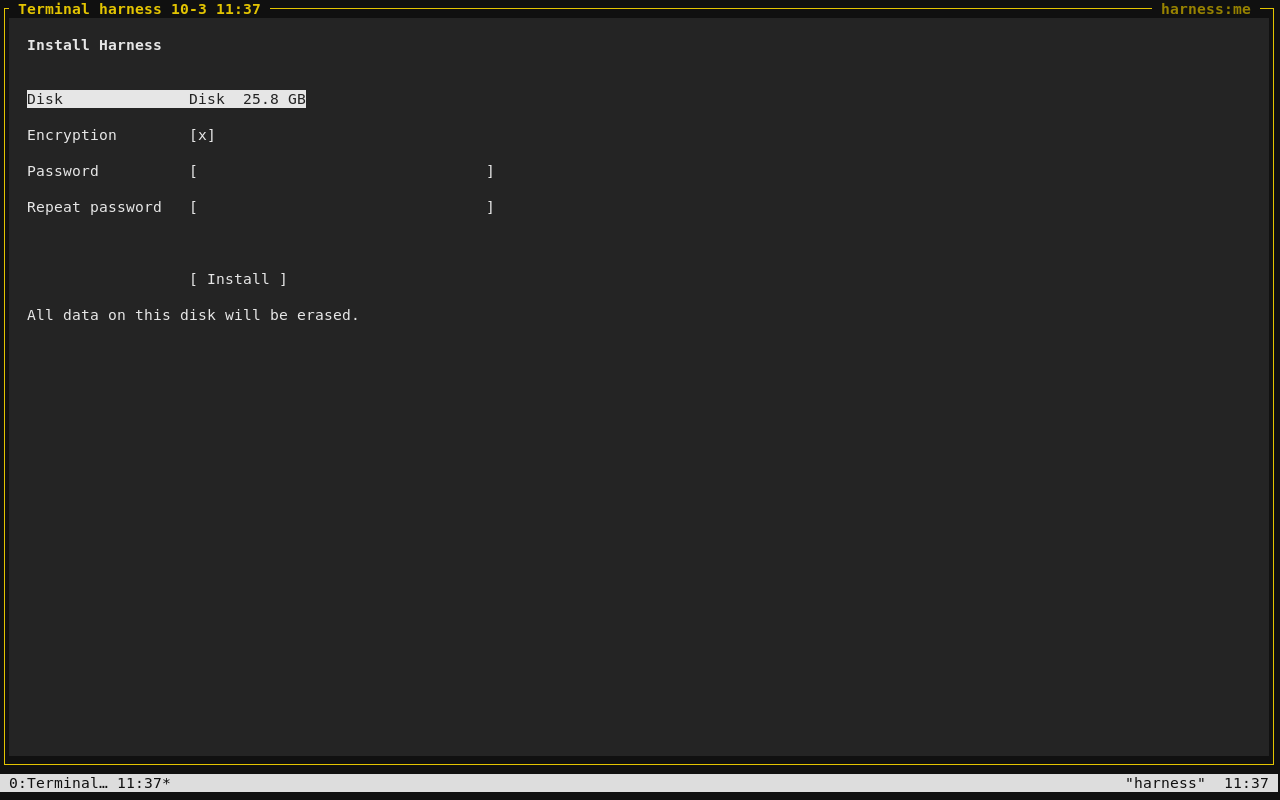
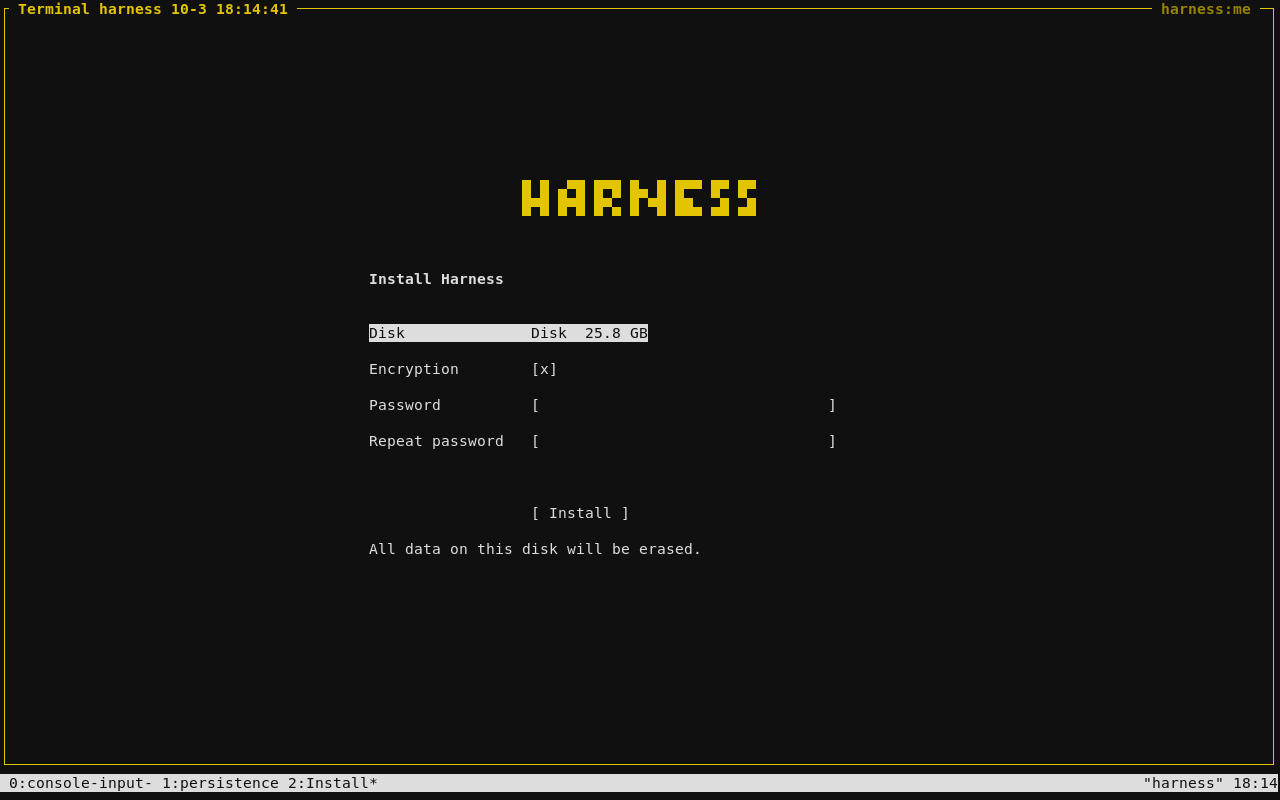
Refresh the OS page for preview 5 and updates without reflashing (#690)

diff --git a/website/public/os/index.html b/website/public/os/index.html
@@ -30,7 +30,7 @@
 
     <main id="main">
       <section class="hero" aria-labelledby="headline">
-        <p class="eyebrow">An operating system built around agents <span class="edition">Preview 4</span></p>
+        <p class="eyebrow">An operating system built around agents <span class="edition">Preview 5</span></p>
         <div class="hero-grid">
           <h1 id="headline">Agents are<br>the new apps<span class="period">.</span></h1>
           <div class="hero-copy">
@@ -40,17 +40,17 @@
           </div>
         </div>
         <div class="hero-actions">
-          <a class="button" href="https://github.com/autonomous-ai/openharness/releases/download/os-v0.1.0-preview.4/harness-0.1.0-preview.4-x86_64.iso">Download the ISO <span aria-hidden="true">↓</span></a>
-          <a class="text-link" href="https://github.com/autonomous-ai/openharness/releases/tag/os-v0.1.0-preview.4">Release notes <span aria-hidden="true">↗</span></a>
+          <a class="button" href="https://github.com/autonomous-ai/openharness/releases/download/os-v0.1.0-preview.5/harness-0.1.0-preview.5-x86_64.iso">Download the ISO <span aria-hidden="true">↓</span></a>
+          <a class="text-link" href="https://github.com/autonomous-ai/openharness/releases/tag/os-v0.1.0-preview.5">Release notes <span aria-hidden="true">↗</span></a>
           <span class="download-meta">x86-64 · 1.50 GiB · Open source</span>
         </div>
       </section>
 
       <figure class="screen">
         <a href="assets/hn.png" aria-label="Open the Harness home screenshot at full size">
-          <img src="assets/hn.png" width="1280" height="800" alt="Harness running fullscreen, with a recent terminal and keyboard shortcuts for starting an agent and opening the browser." fetchpriority="high">
+          <img src="assets/hn.png" width="1280" height="800" alt="Harness running fullscreen, with shortcuts to start OpenCode, open a terminal, or connect to Wi-Fi." fetchpriority="high">
         </a>
-        <figcaption><span>The whole desktop.</span><span>Actual preview 4 screenshot. Keyboard first.</span></figcaption>
+        <figcaption><span>The whole desktop.</span><span>Actual preview 5 screenshot. Keyboard first.</span></figcaption>
       </figure>
 
       <section id="how" class="section workflow" aria-labelledby="workflow-title">
@@ -81,7 +81,7 @@
             <figcaption><h3><span class="step-number">02</span> Unlock. Start making.</h3><p>Remove the USB and boot your computer. On an encrypted install, enter your password to open Harness. Your account is already <code>me@harness</code>.</p><p class="caption-note">Start OpenCode, choose another agent, or open a terminal. OpenCode is included; other agents install when selected. Their accounts and model usage are yours.</p></figcaption>
           </figure>
         </div>
-        <p class="journey-note">Real screens from preview 4. Installation erases the entire selected disk. <a href="#install">Read the installation guide below.</a></p>
+        <p class="journey-note">Real screens from preview 5. Installation erases the entire selected disk. <a href="#install">Read the installation guide below.</a></p>
       </section>
 
       <section class="section philosophy" aria-labelledby="philosophy-title">
@@ -98,19 +98,19 @@
       </section>
 
       <section class="section measurements" aria-labelledby="measurements-title">
-        <div class="section-heading"><h2 id="measurements-title">Small. Measured.</h2><a class="text-link" href="https://github.com/autonomous-ai/openharness/releases/download/os-v0.1.0-preview.4/validation.json">Read the evidence <span aria-hidden="true">↗</span></a></div>
+        <div class="section-heading"><h2 id="measurements-title">Small. Measured.</h2><a class="text-link" href="https://github.com/autonomous-ai/openharness/releases/download/os-v0.1.0-preview.5/validation.json">Read the evidence <span aria-hidden="true">↗</span></a></div>
         <dl class="numbers">
           <div><dt>ISO download</dt><dd>1.50<span>GiB</span></dd></div>
-          <div><dt>Settled idle memory</dt><dd>~500<span>MiB</span></dd></div>
-          <div><dt>Offline VM installation</dt><dd>30–45<span>sec</span></dd></div>
+          <div><dt>Settled idle memory</dt><dd>~390<span>MiB</span></dd></div>
+          <div><dt>Offline VM installation</dt><dd>32–108<span>sec</span></dd></div>
         </dl>
-        <p class="measurement-note">Preview 4 measurements in 2-vCPU, 4-GiB x86 VMs installed from virtual USB. Idle memory is with agents and browser closed. Installation excludes downloading the image and answering prompts. Physical hardware will differ.</p>
+        <p class="measurement-note">Preview 5 measurements in 2-vCPU, 1-GiB x86 VMs installed from virtual USB. Idle memory is with agents and browser closed. Installation took 32 seconds without encryption and 108 seconds with encryption, excluding the download and answering prompts. Physical hardware will differ.</p>
         <details>
           <summary>What has actually been tested? <span aria-hidden="true">+</span></summary>
           <div class="details-content">
-            <p>The keyboard installer, BIOS and UEFI USB boot, automatic RAM-image detection, offline installation, encrypted disks, wrong-password retry, clipboard, browser switching, update retry, and recovery that preserves projects. This exact image passed at 1 GiB and 4 GiB RAM, including a real first agent conversation typed through the keyboard.</p>
-            <p>In the 4-GiB checks, installed BIOS boot reached Harness readiness in 17.3 seconds, including automated login. Encrypted boot showed the password prompt in 4.6 seconds and reached Harness 8.3 seconds after password submission. Settled idle memory was 481–511 MiB. Separate <a href="https://github.com/autonomous-ai/openharness/blob/main/os/README.md#measured-preview-footprint">1-GiB checks measured 396–399 MiB</a>. These are VM observations, not physical power-on benchmarks.</p>
-            <p>OpenCode agents built a Python CLI, a website, a keyboard game, and a Fastify/SQLite app. Three completed projects were retained; the game agent ran again. All 31 unit tests and independent browser/API checks passed on this image. Three fresh domain-specific harness exercises also passed with the shared HTML and game viewers.</p>
+            <p>The keyboard installer, BIOS and UEFI USB boot, automatic RAM-image detection, offline installation, encrypted disks, wrong-password retry, clipboard, browser switching, update retry, and recovery that preserves projects. This image passed at 1 GiB RAM, including a real first agent conversation typed through the keyboard. Separate update tests preserve a running OpenCode agent and terminal through hn and CLI activation, failed-start recovery, and rollback.</p>
+            <p>Installed BIOS boot reached Harness readiness in 15.9 seconds, including automated login. Encrypted boot showed the password prompt in 5.2 seconds and reached Harness 7.7 seconds after the correct password was submitted. Settled idle memory was 376–395 MiB. These are VM observations, not physical power-on benchmarks.</p>
+            <p>Earlier preview 4 tests had OpenCode agents build a Python CLI, a website, a keyboard game, and a Fastify/SQLite app. Their 31 unit tests and independent browser/API checks passed, along with three domain-specific harness exercises using the shared viewers. Those projects and their evidence remain available separately.</p>
             <p>A user has now reported a successful preview 4 installation, boot, and use on their ThinkPad. This is a user report, without measured hardware timings. Physical Wi-Fi, suspend, Intel Mac support, and NVIDIA workloads still need model-specific validation.</p>
             <a class="text-link" href="https://github.com/autonomous-ai/openharness/releases/download/os-v0.1.0-preview.4/harness-examples.zip">Download the projects and harness examples <span aria-hidden="true">↓</span></a>
           </div>
@@ -119,27 +119,27 @@
           <summary>See a game built inside the OS. <span aria-hidden="true">+</span></summary>
           <div class="details-content">
             <img src="assets/signal-run.png" width="1280" height="800" loading="lazy" alt="Signal Run, a keyboard-controlled canvas game built by a real OpenCode agent inside Harness. The complete board and control legend fit on screen.">
-            <p>Signal Run. Built with HTML, CSS, and JavaScript by OpenCode in the installed OS. This is project output, separate from the system image.</p>
+            <p>Signal Run. Built with HTML, CSS, and JavaScript by OpenCode inside preview 4. This is project output, separate from the system image.</p>
           </div>
         </details>
       </section>
 
       <section id="install" class="section install" aria-labelledby="install-title">
         <div class="section-intro">
-          <p class="eyebrow">0.1.0-preview.4</p>
+          <p class="eyebrow">0.1.0-preview.5</p>
           <h2 id="install-title">Give it a machine.<br>Make something.</h2>
-          <p>An x86-64 Intel or AMD PC. Start with 2 GiB RAM and a spare disk of at least 12 GiB. Secure Boot off. A disposable x86 VM works too.</p>
-          <a class="text-link" href="https://github.com/autonomous-ai/openharness/releases/download/os-v0.1.0-preview.4/INSTALL.md">USB installation guide <span aria-hidden="true">↗</span></a>
+          <p>An x86-64 Intel or AMD PC with SSE4.2 for OpenCode. Start with 2 GiB RAM and a spare disk of at least 12 GiB. Secure Boot off. A disposable x86 VM works too.</p>
+          <a class="text-link" href="https://github.com/autonomous-ai/openharness/releases/download/os-v0.1.0-preview.5/INSTALL.md">USB installation guide <span aria-hidden="true">↗</span></a>
         </div>
         <div class="install-copy">
           <ol>
-            <li>Download the ISO and <a href="https://github.com/autonomous-ai/openharness/releases/download/os-v0.1.0-preview.4/harness-0.1.0-preview.4-x86_64.iso.sha256">verify its checksum</a>.</li>
+            <li>Download the ISO and <a href="https://github.com/autonomous-ai/openharness/releases/download/os-v0.1.0-preview.5/harness-0.1.0-preview.5-x86_64.iso.sha256">verify its checksum</a>.</li>
             <li>Write the whole image to a USB stick and boot it.</li>
             <li>Press <kbd>Enter</kbd> on the welcome screen to install.</li>
           </ol>
           <p class="install-notice"><strong>The installer erases the entire selected disk.</strong> It does not resize an existing OS. Back up that disk first. Encryption is on by default.</p>
           <p class="install-note">Choose your disk, set encryption, and enter your password twice. Choose Install to erase that disk and begin. There is no second confirmation. Your account is <code>me@harness</code>.</p>
-          <a class="button" href="https://github.com/autonomous-ai/openharness/releases/download/os-v0.1.0-preview.4/harness-0.1.0-preview.4-x86_64.iso">Download the ISO <span aria-hidden="true">↓</span></a>
+          <a class="button" href="https://github.com/autonomous-ai/openharness/releases/download/os-v0.1.0-preview.5/harness-0.1.0-preview.5-x86_64.iso">Download the ISO <span aria-hidden="true">↓</span></a>
         </div>
       </section>
 
@@ -147,7 +147,7 @@
         <details>
           <summary>Can I install it on a Mac or an NVIDIA machine? <span aria-hidden="true">+</span></summary>
           <div class="details-content">
-            <p>The current image targets x86-64 PCs. Our next hardware targets are older Intel Macs without T2, then NVIDIA desktops with RTX 4090 and 5090 cards. Those configurations are not yet validated. Apple Silicon needs a separate ARM image and hardware integration.</p>
+            <p>The current image targets x86-64 PCs. Our next hardware targets are older Intel Macs without T2, then NVIDIA desktops with RTX 4090 and 5090 cards. Those configurations are not yet validated. Core 2 CPUs cannot run bundled OpenCode. Apple Silicon needs a separate ARM image and hardware integration.</p>
             <p>Local AI is part of the direction. GPU drivers, an inference runtime, a model, and the agent connection all need to work together before we call a configuration supported. This preview does not promise local models out of the box.</p>
             <a class="text-link" href="https://github.com/autonomous-ai/openharness/blob/main/os/DEVELOPMENT.md#mac-support-targets">Hardware roadmap <span aria-hidden="true">↗</span></a>
           </div>
@@ -155,9 +155,9 @@
         <details>
           <summary>Already installed? Update without flashing again. <span aria-hidden="true">+</span></summary>
           <div class="details-content">
-            <p>Preview 4 has an optional development update bundle of about 7.4 MB. Apply it to an installed system and keep your projects; rollback restores the previous Harness package. Apply, failure recovery, rollback, and encrypted reboot were tested in a VM with a running terminal and project preserved.</p>
-            <p>This is a manual update for an existing installation. Use the ISO above for a USB installer.</p>
-            <a class="text-link" href="https://github.com/autonomous-ai/openharness/releases/tag/os-v0.1.0-preview.4">Update instructions and verified download <span aria-hidden="true">↗</span></a>
+            <p>Preview 5 prepares hn and CLI updates automatically. A small notice appears when one is ready. Press <kbd>Super</kbd> + <kbd>U</kbd>, then Enter to apply it. The screen reconnects; your running agents, terminals, and tabs stay with you.</p>
+            <p>System updates live in the same screen, with a recovery checkpoint and a restart when you are ready. Already on preview 4? Apply the 7.1 MB bootstrap bundle once to get this update path. Routine updates do not require another USB flash.</p>
+            <a class="text-link" href="https://github.com/autonomous-ai/openharness/releases/tag/os-v0.1.0-preview.5">Update instructions and verified download <span aria-hidden="true">↗</span></a>
           </div>
         </details>
         <details>

diff --git a/website/public/os/README.md b/website/public/os/README.md
@@ -25,28 +25,45 @@ the [website pipeline](../../README.md#releasing).
 - The page walks through installation, encrypted boot, and working with agents.
   Keep shipped behavior and future hardware support distinct. Ordinary Harness
   on macOS or another Linux distribution does not show the OS installation UI.
-- Download links target `os-v0.1.0-preview.4`. Update the
+- Download links target `os-v0.1.0-preview.5`. Update the
   version, measurements, evidence links, and screenshots together for a release.
-- `assets/hn.png` is the actual hn screen from image validation run
-  [37120135497](https://github.com/autonomous-ai/openharness/actions/runs/37120135497).
+- `assets/hn.png` is the actual installed hn home (`04-installed-hn.png`) from
+  the encrypted UEFI journey in final image validation run
+  [37142219550](https://github.com/autonomous-ai/openharness/actions/runs/37142219550),
+  source `6171b0ab5e60129c66cf301b33047e672d4e4d1a`.
 - `assets/install.png` and `assets/unlock.png` are unmodified screenshots from the
-  encrypted UEFI journey in that run: `01b-direct-install-offline.png` and
+  encrypted UEFI journey in that run: `install-01-form.png` and
   `disk-unlock-2-masked.png`. Passwords are masked. Images link to their full size.
 - `assets/signal-run.png` is actual project output from the successful workload run
   [37120135497](https://github.com/autonomous-ai/openharness/actions/runs/37120135497).
   It covers preview 4 and loads lazily inside a native HTML disclosure.
-- Footprint, installation and boot measurements cover preview 4 USB tests at
-  4 GiB RAM. The separate 1 GiB measurements link to the same image’s test run
-  through the OS README. All project acceptance checks reran on this image;
-  three completed project sources were retained and the game agent ran again.
+- Footprint, installation and boot measurements cover the exact preview 5 ISO
[1 lines of base64/hex data omitted]
+  in 2-vCPU, 1-GiB VMs booted from virtual USB. BIOS/plain installation took
+  31.555 seconds; UEFI/encrypted took 107.161 seconds. The displayed range rounds
+  those up. Six settled samples with agents/browser closed measured
+  375.64–394.59 MiB, using total memory minus available memory. BIOS readiness
+  was 15.862 seconds including test login. The UEFI password prompt appeared at
+  5.243 seconds; readiness followed the correct password submission by 7.719
+  seconds. The deliberate 100-second wait and wrong-password retry are excluded
+  from that post-password interval. These are CI VM observations.
+- The generated project evidence remains explicitly tied to preview 4.
+  Its unit tests and independent acceptance checks passed on that image;
+  three project sources were retained from earlier work and the game agent ran again.
   [Three fresh DSH exercises](https://github.com/autonomous-ai/openharness/actions/runs/37120138348)
   cover this image and its shared viewers too.
 - The preview 4 ThinkPad install/boot/use success is a user report from October 3,
   2026, not a measured hardware benchmark. Wi-Fi, suspend, Mac, and NVIDIA claims
   require their own hardware evidence.
-- The optional 7.4 MB development update links to the same release. It was tested
-  separately in [37124241039](https://github.com/autonomous-ai/openharness/actions/runs/37124241039).
-  The update bundle is for installed systems, not USB flashing.
+- Preview 5 adds separate hn/CLI and system update channels. The 7.1 MB preview 4
+  bootstrap bundle and its exact source passed native package, runtime and
+  system-channel acceptance in
+  [37142216520](https://github.com/autonomous-ai/openharness/actions/runs/37142216520),
+  including process/tab survival, failed-start recovery and encrypted reboot.
+  The bundle is for installed systems, not USB flashing. Publish the ISO and the
+  verified update assets before deploying links to them.
+- Intel Mac support is a roadmap. An actual Core 2 TCG instruction-emulation probe
+  boots hn but OpenCode exits with SIGILL; bundled OpenCode requires SSE4.2.
 - Geist and Geist Mono are the repository's existing fonts, converted to WOFF.
   Their SIL Open Font License is included in `assets/OFL.txt`.
 - The prompt mark is a small local SVG. There are no remote asset requests.
@@ -58,8 +75,9 @@ and the release's download names. Visually inspect desktop and narrow screens;
 use the keyboard to reach every link and toggle the disclosures. Confirm that
 no content overflows at 320 px, 390 px, 768 px, and desktop widths.
 
-The updated page passed HTML5/CSS parsing, asset, font, image-dimension, local
-anchor, and current release-download-name checks on October 3. The user visually
-reviewed the page and approved deployment on October 3. Automated browser review
-was blocked by the saved local site permission; responsive widths and keyboard
-interaction have not been independently checked in this revision.
+The user reviewed and approved the prior page design on October 3. This revision
+updates copy, measurements and unmodified VM screenshots without changing CSS.
+The final OS screenshots were visually inspected. Browser Use still rejects the
+local page because of the saved permission for `127.0.0.1:18092`; responsive
+widths and keyboard interaction remain unverified for this revision. Record
+static asset checks and the website CI build/route results in the PR.
